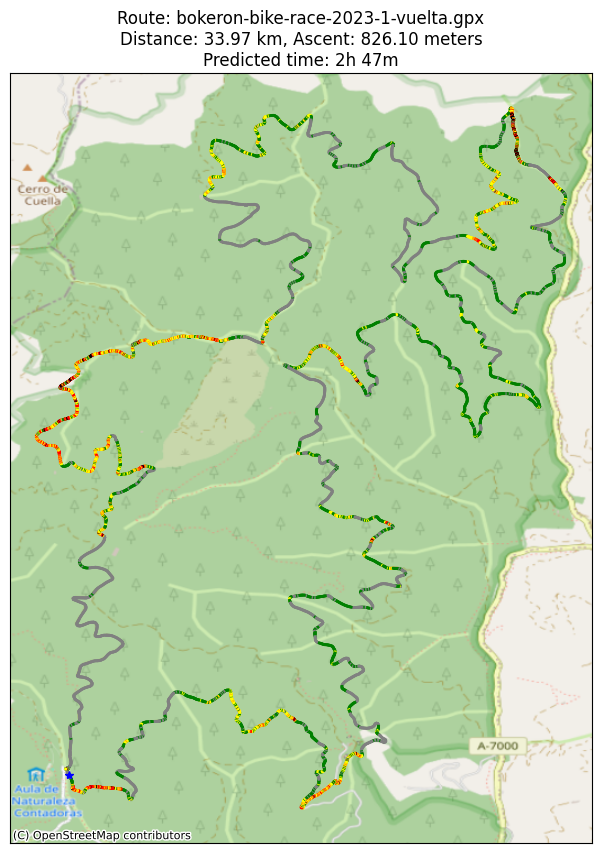
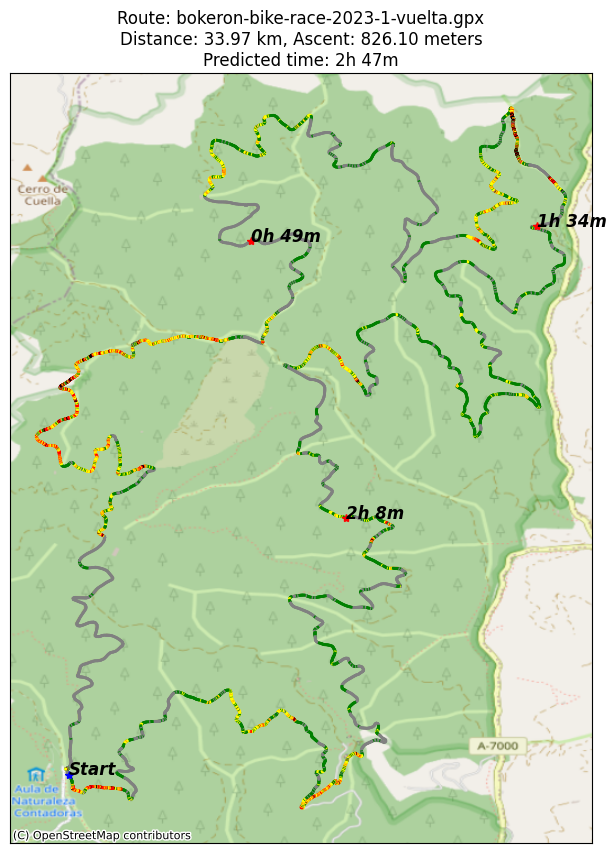
+ Add quarter points to predictions

diff --git a/route_completion_time/predict.py b/route_completion_time/predict.py
@@ -1,6 +1,7 @@
 import os
 import pickle
 
+import contextily as ctx
 import gpxpy
 import haversine as hs
 import pandas as pd
@@ -44,6 +45,11 @@ def process_gpx(data, season, time_of_day, watt_kilo, atl, ctl):
 
     :rtype: pd.DataFrame
     """
+
+    # Reset idx
+    data = data.copy()
+    data.reset_index(drop=True, inplace=True)
+
     for i in range(1, len(data)):
         data.loc[i, "distance"] = hs.haversine((data.loc[i - 1, "position_lat"], data.loc[i - 1, "position_long"]),
                                                (data.loc[i, "position_lat"], data.loc[i, "position_long"]),
@@ -51,10 +57,7 @@ def process_gpx(data, season, time_of_day, watt_kilo, atl, ctl):
         data["slope"] = (data["altitude"] - data["altitude"].shift(1)) / data["distance"] * 100
         data["altitude_diff"] = data["altitude"].diff()
 
-
-
-
-    raw_data = data.copy()
+    data["cum_distance"] = data["distance"].cumsum()
 
     # Aggregate the dataframe
     distance = data["distance"].sum()
@@ -81,7 +84,7 @@ def process_gpx(data, season, time_of_day, watt_kilo, atl, ctl):
     for idx, row in slopes_pctg.iterrows():
         data_dict[f"{row['slope_color']}_pctg"] = row["distance_pctg"]
 
-    return pd.DataFrame(data_dict, index=[0]), raw_data
+    return pd.DataFrame(data_dict, index=[0]), data
 
 
 def search_models(models_folder="model_stats", n_models=2, verbose=False):
@@ -124,7 +127,7 @@ def search_models(models_folder="model_stats", n_models=2, verbose=False):
     return top_models
 
 
-def plot_prediction(gpx_data, pred_time_hours, pred_time_minutes, route_name, distance, ascent):
+def plot_prediction(gpx_data, pred_time_hours, pred_time_minutes, route_name, distance, ascent, quarter_info):
     """
     Plot the GPX data with predicted time and colored slope
     :param gpx_data: pd.DataFrame, the GPX data with required columns
@@ -133,6 +136,7 @@ def plot_prediction(gpx_data, pred_time_hours, pred_time_minutes, route_name, di
     :param route_name: str, name of the route
     :param distance: float, distance of the route
     :param ascent: float, ascent of the route
+    :param quarter_info: pd.DataFrame, the info of the quarters
     :return: None
 
     :rtype: None
@@ -146,18 +150,27 @@ def plot_prediction(gpx_data, pred_time_hours, pred_time_minutes, route_name, di
 
     fig, ax = plt.subplots(figsize=(10, 10))
 
-    # Plot GPX data with colored slope
     for i in range(len(gpx_data) - 1):
         ax.plot([gpx_data['position_long'][i], gpx_data['position_long'][i + 1]],
                 [gpx_data['position_lat'][i], gpx_data['position_lat'][i + 1]],
                 color=gpx_data['slope_color'].iloc[i], linewidth=2)
 
-    # Add start point to the plot as a blue star
     ax.plot(gpx_data['position_long'].iloc[0], gpx_data['position_lat'].iloc[0], '*', color='blue', label='Start')
+
+    # Start point text
+    start_lat = gpx_data['position_lat'].iloc[0]
+    start_long = gpx_data['position_long'].iloc[0]
+    ax.text(start_long, start_lat, 'Start', color='black', style='italic', fontsize=12, weight='bold')
 
     # Add background map using contextily
     ctx.add_basemap(ax, crs="EPSG:4326",
                     source=xzy.providers.OpenStreetMap.Mapnik)
+
+    # Add quarter points with an asterisk, and the time inside a box
+    for idx, row in quarter_info.iterrows():
+        ax.plot(row["position_long"], row["position_lat"], '*', color='red', label='Quarter')
+        ax.text(row["position_long"], row["position_lat"], row["time_str"], color='black', style='italic', fontsize=12,
+                weight='bold')
 
     # Remove axis labels and ticks
     ax.set_xticks([])
@@ -190,9 +203,10 @@ def make_prediction(model_pkl_path, route_data, model_name):
     hours = pred_segs // 3600
     minutes = (pred_segs % 3600) // 60
 
-    print(f"Predicted time for {model_name}: {int(hours)} hours and {int(minutes)} minutes")
+    # print(f"Predicted time for {model_name}: {int(hours)} hours and {int(minutes)} minutes")
 
-    return hours, minutes
+    return int(hours), int(minutes)
+
 
 ### MAIN SCRIPT ###
 # FITNESS = CTL
@@ -225,22 +239,41 @@ for file in os.listdir(gpx_folder):
         print(f"Processing {gpx_path}")
 
         route_agg, route_df = process_gpx(df, SEASON, TIME_OF_DAY, WATTKILO, ATL, CTL)
-        print(route_agg)
-        print(route_df)
-        exit()
         distance_km = route_agg["distance"].values[0] / 1000
         ascent_meters = route_agg["ascent_meters"].values[0]
 
+        # Separate the route in 3 chunks: 0-25%, 0-50%, 0-75%
+        first_qtr = route_df[route_df["cum_distance"] <= route_df["cum_distance"].max() * 0.25]
+        second_qtr = route_df[route_df["cum_distance"] <= route_df["cum_distance"].max() * 0.50]
+        third_qtr = route_df[route_df["cum_distance"] <= route_df["cum_distance"].max() * 0.75]
+
+        route_agg_1, _ = process_gpx(first_qtr, SEASON, TIME_OF_DAY, WATTKILO, ATL, CTL)
+        route_agg_2, _ = process_gpx(second_qtr, SEASON, TIME_OF_DAY, WATTKILO, ATL, CTL)
+        route_agg_3, _ = process_gpx(third_qtr, SEASON, TIME_OF_DAY, WATTKILO, ATL, CTL)
+
         for idx, model_info in available_models.iterrows():
             model_pkl_path = os.path.join("model_stats", model_info["model_file"])
-            try:
-                hours, minutes = make_prediction(model_pkl_path, route_agg, model_info["model_name"])
+            print(f"Making prediction with {model_info['model_name']}")
 
-            except Exception as e:
-                print(f"Error predicting with model {model_info['model_name']}: {e}")
-                continue
+            full_h, full_mins = make_prediction(model_pkl_path, route_agg, model_info["model_name"])
+            first_h, first_mins = make_prediction(model_pkl_path, route_agg_1, model_info["model_name"])
+            second_h, second_mins = make_prediction(model_pkl_path, route_agg_2, model_info["model_name"])
+            third_h, third_mins = make_prediction(model_pkl_path, route_agg_3, model_info["model_name"])
 
-            # plot_prediction(df, hours, minutes, file, distance_km,
-            #                 ascent_meters)
+            # Create a dict with the quarter info, time str, lat, long
+            quarter_info = pd.DataFrame({
+                "position_lat": [first_qtr["position_lat"].iloc[-1], second_qtr["position_lat"].iloc[-1],
+                                 third_qtr["position_lat"].iloc[-1]],
+                "position_long": [first_qtr["position_long"].iloc[-1], second_qtr["position_long"].iloc[-1],
+                                  third_qtr["position_long"].iloc[-1]],
+                "time_str": [f"{first_h}h {first_mins}m", f"{second_h}h {second_mins}m", f"{third_h}h {third_mins}m"]
+            })
 
-    break
+            print(f"First quarter: {first_h} hours and {first_mins} minutes")
+            print(f"Second quarter: {second_h} hours and {second_mins} minutes")
+            print(f"Third quarter: {third_h} hours and {third_mins} minutes")
+            print(f"Full route: {full_h} hours and {full_mins} minutes")
+
+            print("Plotting map")
+            plot_prediction(route_df, full_h, full_mins, file, distance_km,
+                            ascent_meters, quarter_info)
